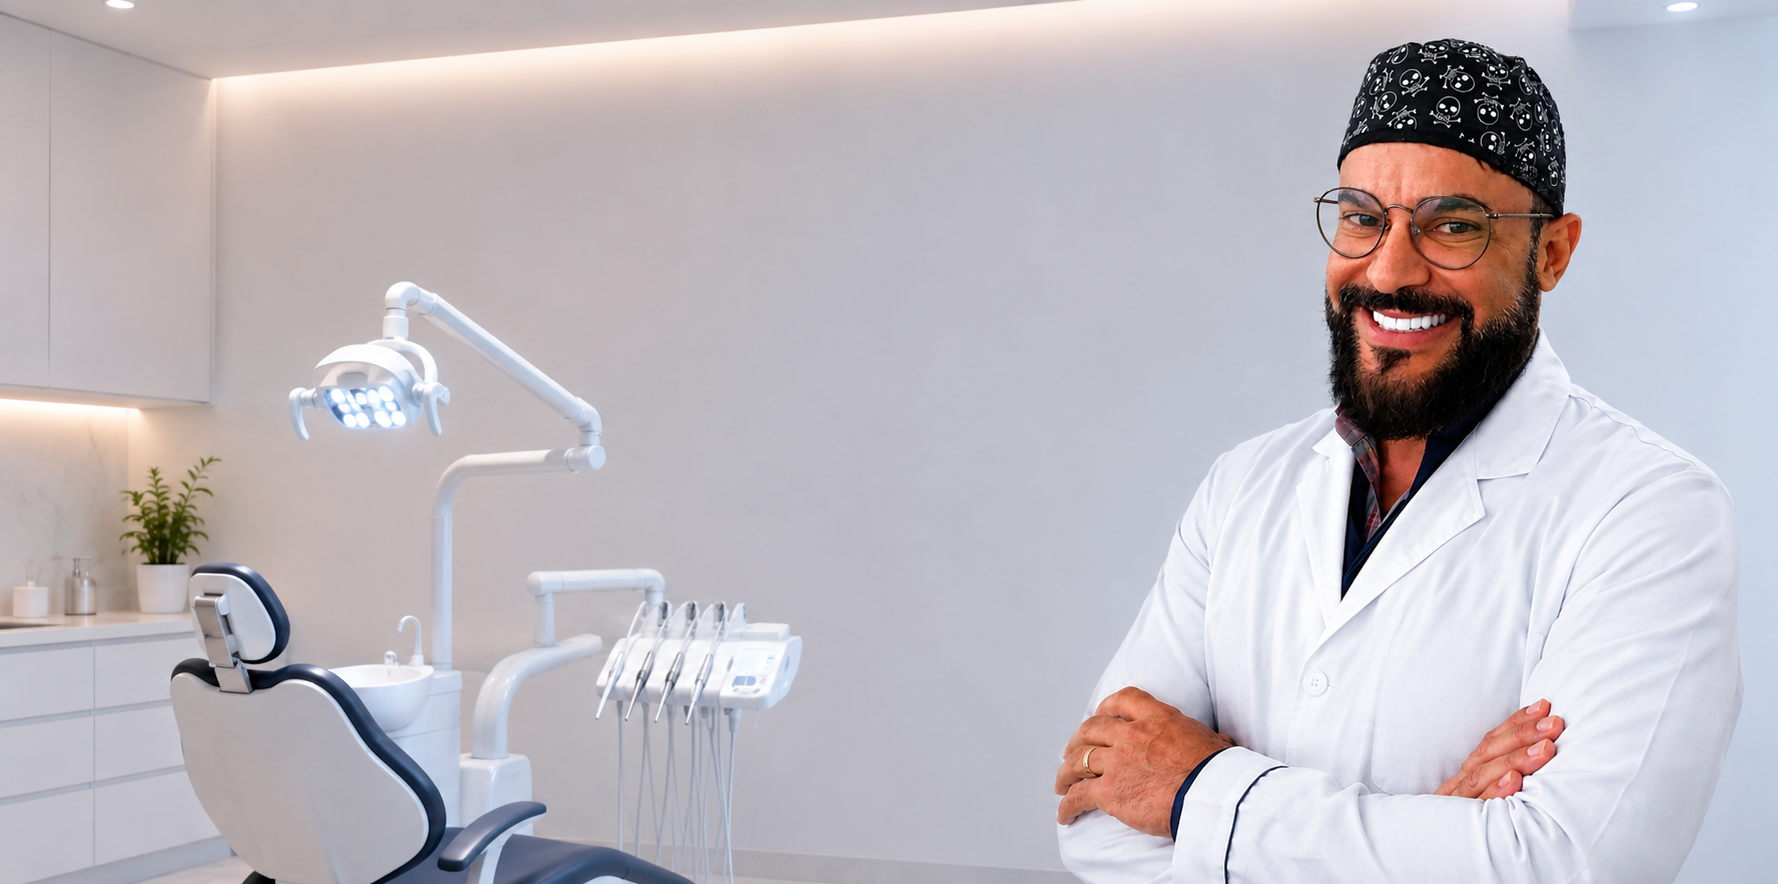
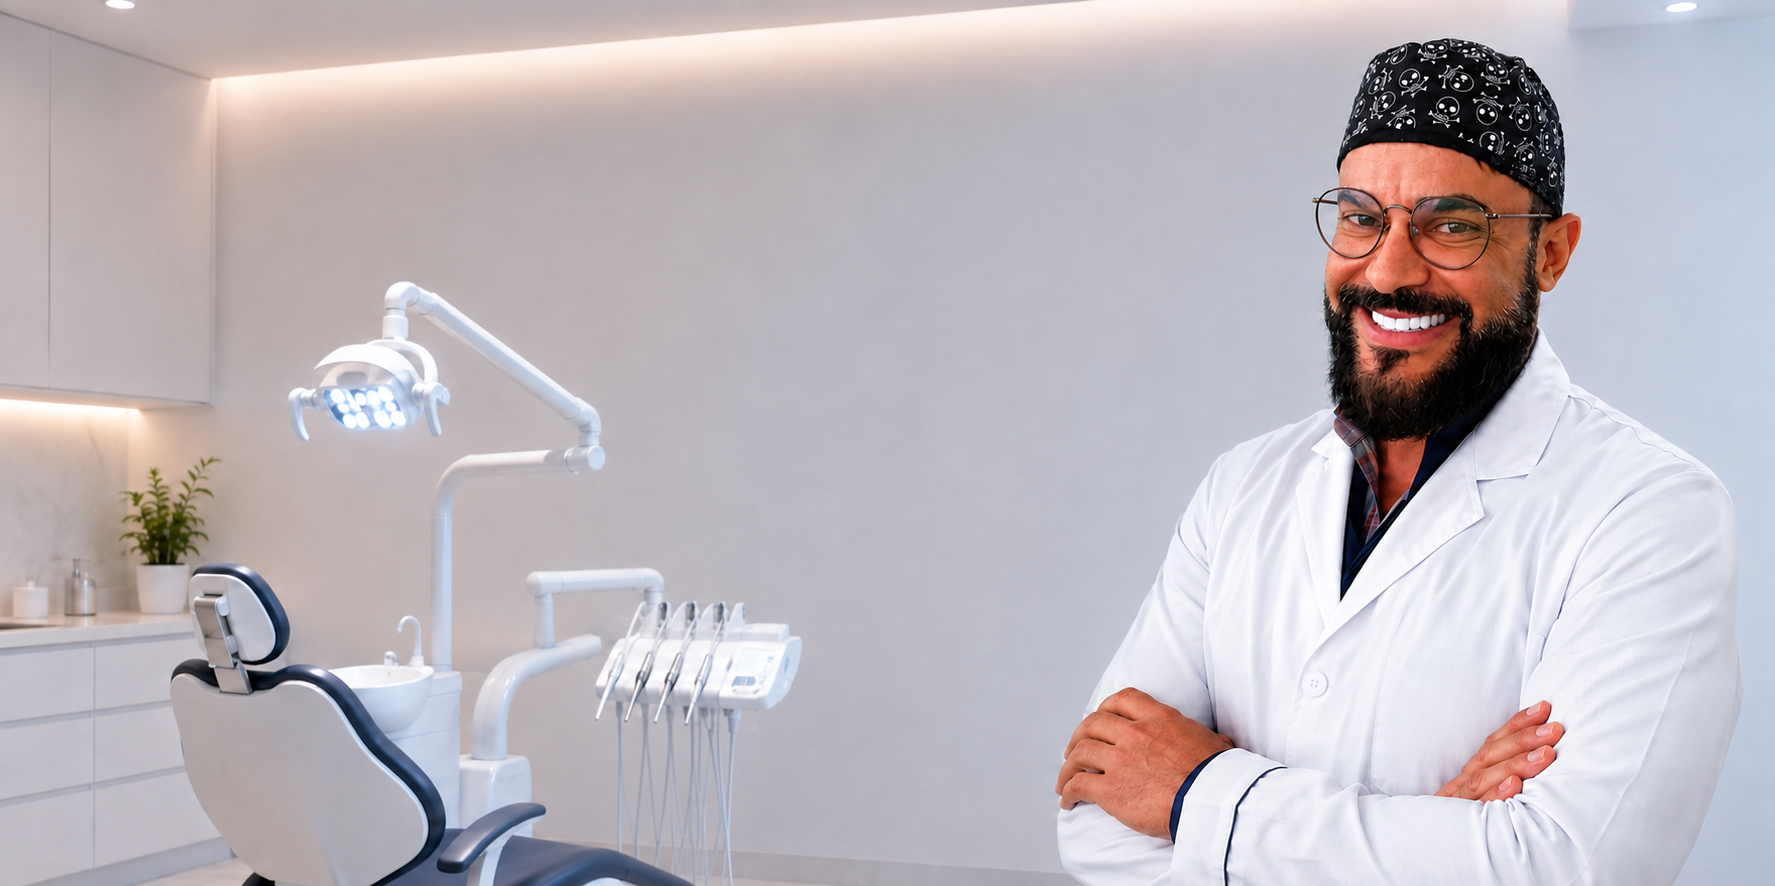
feat: menu fixo com fundo desfocado e azul escuro como cor unica
- Barra de navegacao sticky, transparente no topo e desfocada apos o scroll
- Ancoras para tratamento, passos, duvidas e localizacao
- Agendamento e rodape passam para azul escuro
- Botoes unificados no azul escuro, com variante clara para fundo escuro
- Badge removido do hero e banner atualizado com a foto nova

diff --git a/site/src/components/FormularioAgendamento.tsx b/site/src/components/FormularioAgendamento.tsx
@@ -93,7 +93,7 @@ export function FormularioAgendamento() {
             type="text"
             required
             autoComplete="name"
-            className="mt-2 min-h-[3.5rem] w-full rounded-xl border-2 border-cream-300 bg-cream-50 px-4 text-lg text-ink-900 placeholder:text-ink-400 focus:border-ink-700"
+            className="mt-2 min-h-[3.5rem] w-full rounded-xl border-2 border-cream-300 bg-cream-50 px-4 text-lg text-ink-900 placeholder:text-ink-400 focus:border-navy-900"
             placeholder="Como podemos te chamar"
           />
         </div>
@@ -111,7 +111,7 @@ export function FormularioAgendamento() {
             autoComplete="tel"
             value={telefone}
             onChange={(event) => setTelefone(formatarTelefone(event.target.value))}
-            className="mt-2 min-h-[3.5rem] w-full rounded-xl border-2 border-cream-300 bg-cream-50 px-4 text-lg text-ink-900 placeholder:text-ink-400 focus:border-ink-700"
+            className="mt-2 min-h-[3.5rem] w-full rounded-xl border-2 border-cream-300 bg-cream-50 px-4 text-lg text-ink-900 placeholder:text-ink-400 focus:border-navy-900"
             placeholder="(27) 90000-0000"
           />
         </div>
@@ -124,7 +124,7 @@ export function FormularioAgendamento() {
             id="mensagem"
             name="mensagem"
             rows={3}
-            className="mt-2 w-full rounded-xl border-2 border-cream-300 bg-cream-50 px-4 py-3 text-lg text-ink-900 placeholder:text-ink-400 focus:border-ink-700"
+            className="mt-2 w-full rounded-xl border-2 border-cream-300 bg-cream-50 px-4 py-3 text-lg text-ink-900 placeholder:text-ink-400 focus:border-navy-900"
             placeholder="Pode escrever com suas palavras"
           />
         </div>
@@ -135,7 +135,7 @@ export function FormularioAgendamento() {
             name="consentimento"
             type="checkbox"
             required
-            className="mt-1 h-6 w-6 shrink-0 accent-[#9a4b14]"
+            className="mt-1 h-6 w-6 shrink-0 accent-[#0c2033]"
           />
           <label htmlFor="consentimento" className="text-base leading-relaxed text-ink-700">
             Autorizo o contato pelos dados informados e li a{' '}
@@ -148,7 +148,7 @@ export function FormularioAgendamento() {
       </div>
 
       {status === 'error' ? (
-        <p role="alert" className="mt-5 rounded-xl bg-accent-100 p-4 text-base text-accent-700">
+        <p role="alert" className="mt-5 rounded-xl bg-red-50 p-4 text-base text-red-800">
           Não conseguimos enviar agora. Tente novamente em instantes ou chame direto no WhatsApp.
         </p>
       ) : null}
@@ -156,7 +156,7 @@ export function FormularioAgendamento() {
       <button
         type="submit"
         disabled={enviando}
-        className="mt-6 flex min-h-[3.5rem] w-full items-center justify-center rounded-full bg-accent-600 px-7 text-lg font-semibold text-white transition-colors hover:bg-accent-700 disabled:cursor-not-allowed disabled:opacity-70"
+        className="mt-6 flex min-h-[3.5rem] w-full items-center justify-center rounded-full bg-navy-900 px-7 text-lg font-semibold text-white transition-colors hover:bg-navy-800 disabled:cursor-not-allowed disabled:opacity-70"
       >
         {enviando ? 'Enviando...' : 'Quero agendar minha avaliação'}
       </button>

diff --git a/site/src/components/Menu.tsx b/site/src/components/Menu.tsx
@@ -1,0 +1,71 @@
+import { useEffect, useState } from 'react'
+import { WhatsAppIcon } from './CtaButton'
+import { clinic, whatsappUrl } from '../lib/site-config'
+import { trackConversion } from '../lib/tracking'
+
+const links = [
+  { href: '#tratamento', rotulo: 'O tratamento' },
+  { href: '#passos', rotulo: 'Como funciona' },
+  { href: '#duvidas', rotulo: 'Dúvidas' },
+  { href: '#local', rotulo: 'Onde fica' },
+] as const
+
+/**
+ * Barra fixa no topo. Começa transparente sobre o banner e, a partir do
+ * primeiro scroll, ganha fundo desfocado para o texto continuar legível.
+ */
+export function Menu() {
+  const [rolou, setRolou] = useState(false)
+
+  useEffect(() => {
+    function onScroll(): void {
+      setRolou(window.scrollY > 24)
+    }
+
+    onScroll()
+    window.addEventListener('scroll', onScroll, { passive: true })
+    return () => window.removeEventListener('scroll', onScroll)
+  }, [])
+
+  return (
+    <div
+      className={`sticky top-0 z-50 transition-colors duration-200 ${
+        rolou ? 'border-b border-cream-200 bg-white/80 backdrop-blur-md' : 'bg-transparent'
+      }`}
+    >
+      <nav
+        aria-label="Navegação da página"
+        className="container-page flex min-h-[4.5rem] items-center justify-between gap-6"
+      >
+        <a href="#topo" className="text-xl font-semibold tracking-tight text-navy-900">
+          {clinic.name}
+        </a>
+
+        <ul className="hidden items-center gap-7 lg:flex">
+          {links.map((link) => (
+            <li key={link.href}>
+              <a
+                href={link.href}
+                className="text-base font-medium text-ink-800 underline-offset-8 hover:underline"
+              >
+                {link.rotulo}
+              </a>
+            </li>
+          ))}
+        </ul>
+
+        <a
+          href={whatsappUrl}
+          target="_blank"
+          rel="noopener noreferrer"
+          onClick={() => trackConversion('whatsapp_click')}
+          className="inline-flex min-h-[3rem] items-center gap-2 rounded-full bg-navy-900 px-5 text-base font-semibold text-white transition-colors hover:bg-navy-800"
+        >
+          <WhatsAppIcon className="h-5 w-5" />
+          <span className="hidden sm:inline">Falar no WhatsApp</span>
+          <span className="sm:hidden">WhatsApp</span>
+        </a>
+      </nav>
+    </div>
+  )
+}

diff --git a/site/src/components/CtaFinal.tsx b/site/src/components/CtaFinal.tsx
@@ -5,26 +5,28 @@ import { clinic } from '../lib/site-config'
 
 export function CtaFinal() {
   return (
-    <Section id="agendar" labelledBy="agendar-titulo" className="bg-sky-100 text-ink-900">
+    <Section id="agendar" labelledBy="agendar-titulo" className="bg-navy-900 text-cream-100">
       <div className="container-page grid gap-10 lg:grid-cols-[1fr_1.05fr] lg:items-center lg:gap-16">
         <div>
-          <SectionTitle id="agendar-titulo">
+          <SectionTitle id="agendar-titulo" className="!text-cream-50">
             Agende sua avaliação e pare de adiar
           </SectionTitle>
 
-          <p className="mt-6 text-lg leading-relaxed text-ink-800 md:text-xl">
+          <p className="mt-6 text-lg leading-relaxed text-cream-200 md:text-xl">
             Deixe seu nome e WhatsApp que a equipe entra em contato para marcar o dia. A avaliação
             é presencial, em {clinic.address.district}, e nela você descobre a condição do seu osso,
             o que pode ser feito, quanto tempo leva e as formas de pagamento. Sem compromisso de
             fechar tratamento na hora.
           </p>
 
-          <div className="mt-8 rounded-card border border-sky-200 bg-white p-6">
-            <p className="text-lg font-semibold text-ink-900">Prefere falar agora?</p>
-            <p className="mt-1 text-base text-ink-700">
+          <div className="mt-8 rounded-card border border-navy-line bg-navy-800 p-6">
+            <p className="text-lg font-semibold text-cream-50">Prefere falar agora?</p>
+            <p className="mt-1 text-base text-cream-200">
               A equipe responde no WhatsApp dentro do horário de atendimento.
             </p>
-            <WhatsAppButton className="mt-5 w-full sm:w-auto">Chamar no WhatsApp</WhatsAppButton>
+            <WhatsAppButton variant="light" className="mt-5 w-full sm:w-auto">
+              Chamar no WhatsApp
+            </WhatsAppButton>
           </div>
         </div>
 

diff --git a/site/src/components/Rodape.tsx b/site/src/components/Rodape.tsx
@@ -2,10 +2,10 @@ import { clinic, dentist, fullAddress } from '../lib/site-config'
 
 export function Rodape() {
   return (
-    <footer className="border-t border-sky-200 bg-sky-100 py-14 pb-28 text-ink-700 md:pb-14">
-      <div className="container-page grid gap-8 text-base text-ink-700 md:grid-cols-3">
+    <footer className="border-t border-navy-line bg-navy-900 py-14 pb-28 text-cream-200 md:pb-14">
+      <div className="container-page grid gap-8 text-base text-cream-200 md:grid-cols-3">
         <div>
-          <p className="text-lg font-semibold text-ink-900">{clinic.legalName}</p>
+          <p className="text-lg font-semibold text-cream-50">{clinic.legalName}</p>
           <p className="mt-2">CNPJ {clinic.cnpj}</p>
           <p className="mt-2">
             Responsável técnico: {dentist.name}
@@ -15,7 +15,7 @@ export function Rodape() {
         </div>
 
         <div>
-          <p className="text-lg font-semibold text-ink-900">Contato</p>
+          <p className="text-lg font-semibold text-cream-50">Contato</p>
           <p className="mt-2">{fullAddress}</p>
           <p className="mt-2">{clinic.hours}</p>
           <p className="mt-2">
@@ -36,13 +36,13 @@ export function Rodape() {
         </div>
 
         <div>
-          <p className="text-lg font-semibold text-ink-900">Informações</p>
+          <p className="text-lg font-semibold text-cream-50">Informações</p>
           <p className="mt-2">
             <a href="/politica-de-privacidade.html" className="underline underline-offset-4">
               Política de privacidade
             </a>
           </p>
-          <p className="mt-4 text-ink-500">
+          <p className="mt-4 text-cream-300">
             Este site tem caráter informativo e não substitui a avaliação clínica presencial.
             Resultados variam conforme o caso de cada paciente.
           </p>

diff --git a/site/src/components/Localizacao.tsx b/site/src/components/Localizacao.tsx
@@ -7,7 +7,7 @@ export function Localizacao() {
   const [mapaVisivel, setMapaVisivel] = useState(false)
 
   return (
-    <Section labelledBy="local-titulo" className="bg-cream-50">
+    <Section id="local" labelledBy="local-titulo" className="bg-cream-50">
       <div className="container-page grid gap-10 lg:grid-cols-2 lg:gap-16">
         <div>
           <SectionTitle id="local-titulo">Onde fica o consultório</SectionTitle>
@@ -39,7 +39,7 @@ export function Localizacao() {
             href={mapsUrl}
             target="_blank"
             rel="noopener noreferrer"
-            className="mt-8 inline-flex min-h-[3.5rem] items-center rounded-full border-2 border-ink-700 px-7 text-lg font-semibold text-ink-900 transition-colors hover:bg-ink-900 hover:text-cream-50"
+            className="mt-8 inline-flex min-h-[3.5rem] items-center rounded-full border-2 border-navy-900 px-7 text-lg font-semibold text-navy-900 transition-colors hover:bg-navy-900 hover:text-white"
           >
             Ver rota no Google Maps
           </a>
@@ -60,7 +60,7 @@ export function Localizacao() {
               onClick={() => setMapaVisivel(true)}
               className="flex h-full min-h-[22rem] w-full flex-col items-center justify-center gap-3 p-8 text-center"
             >
-              <svg viewBox="0 0 24 24" className="h-10 w-10 fill-accent-600" aria-hidden="true">
+              <svg viewBox="0 0 24 24" className="h-10 w-10 fill-navy-900" aria-hidden="true">
                 <path d="M12 2a7 7 0 0 0-7 7c0 5.25 7 13 7 13s7-7.75 7-13a7 7 0 0 0-7-7Zm0 9.5A2.5 2.5 0 1 1 12 6.5a2.5 2.5 0 0 1 0 5Z" />
               </svg>
               <span className="text-lg font-semibold text-ink-900">Carregar o mapa</span>

diff --git a/site/src/components/BotoesFixos.tsx b/site/src/components/BotoesFixos.tsx
@@ -35,7 +35,7 @@ export function BotoesFixos() {
             target="_blank"
             rel="noopener noreferrer"
             onClick={() => trackConversion('whatsapp_click')}
-            className="fixed right-5 bottom-5 z-40 hidden h-16 w-16 items-center justify-center rounded-full bg-[#128C7E] text-white shadow-lg transition-colors hover:bg-[#0d6d62] md:flex"
+            className="fixed right-5 bottom-5 z-40 hidden h-16 w-16 items-center justify-center rounded-full bg-navy-900 text-white shadow-lg ring-2 ring-white/30 transition-colors hover:bg-navy-800 md:flex"
           >
             <WhatsAppIcon className="h-8 w-8" />
             <span className="sr-only">Falar no WhatsApp</span>
@@ -52,14 +52,14 @@ export function BotoesFixos() {
               target="_blank"
               rel="noopener noreferrer"
               onClick={() => trackConversion('whatsapp_click')}
-              className="flex min-h-[3.25rem] flex-1 items-center justify-center gap-2 rounded-full bg-accent-600 text-lg font-semibold text-white"
+              className="flex min-h-[3.25rem] flex-1 items-center justify-center gap-2 rounded-full bg-navy-900 text-lg font-semibold text-white"
             >
               <WhatsAppIcon className="h-6 w-6" />
               WhatsApp
             </a>
             <a
               href="#agendar"
-              className="flex min-h-[3.25rem] flex-1 items-center justify-center rounded-full border-2 border-ink-700 text-lg font-semibold text-ink-900"
+              className="flex min-h-[3.25rem] flex-1 items-center justify-center rounded-full border-2 border-navy-900 text-lg font-semibold text-navy-900"
             >
               Agendar
             </a>

diff --git a/site/src/components/CtaButton.tsx b/site/src/components/CtaButton.tsx
@@ -5,10 +5,17 @@ import { trackConversion } from '../lib/tracking'
 const baseClasses =
   'inline-flex min-h-[3.5rem] items-center justify-center gap-3 rounded-full px-7 py-3 text-center text-lg leading-snug font-semibold transition-colors duration-200'
 
+/** `light` existe para os blocos de fundo azul escuro, onde o sólido sumiria. */
+const VARIANTES = {
+  solid: 'bg-navy-900 text-white hover:bg-navy-800',
+  light: 'bg-white text-navy-900 hover:bg-cream-100',
+  outline: 'border-2 border-navy-900 bg-transparent text-navy-900 hover:bg-navy-900 hover:text-white',
+} as const
+
 interface WhatsAppButtonProps {
   children?: ReactNode
   className?: string
-  variant?: 'solid' | 'outline'
+  variant?: keyof typeof VARIANTES
 }
 
 export function WhatsAppButton({
@@ -16,10 +23,7 @@ export function WhatsAppButton({
   className = '',
   variant = 'solid',
 }: WhatsAppButtonProps) {
-  const variantClasses =
-    variant === 'solid'
-      ? 'bg-accent-600 text-white hover:bg-accent-700'
-      : 'border-2 border-ink-900 bg-transparent text-ink-900 hover:bg-ink-900 hover:text-cream-50'
+  const variantClasses = VARIANTES[variant]
 
   return (
     <a
@@ -45,7 +49,7 @@ export function AnchorButton({ href, children, className = '' }: AnchorButtonPro
   return (
     <a
       href={href}
-      className={`${baseClasses} border-2 border-ink-700 text-ink-900 hover:bg-ink-900 hover:text-cream-50 ${className}`}
+      className={`${baseClasses} ${VARIANTES.outline} ${className}`}
     >
       {children}
     </a>

diff --git a/site/src/components/Hero.tsx b/site/src/components/Hero.tsx
@@ -7,7 +7,7 @@ export function Hero() {
   const fade = reduceMotion ? {} : { initial: { opacity: 0, y: 20 }, animate: { opacity: 1, y: 0 } }
 
   return (
-    <header className="relative overflow-hidden bg-cream-50">
+    <header id="topo" className="relative -mt-[4.5rem] overflow-hidden bg-cream-50 pt-[4.5rem]">
       {/* No celular o banner abre a página; no desktop ele ocupa a metade direita
           e o gradiente garante contraste do texto sobre a parte clara da foto. */}
       <div className="relative lg:absolute lg:inset-y-0 lg:right-0 lg:w-[58%]">
@@ -32,10 +32,6 @@ export function Hero() {
           transition={{ duration: 0.6, ease: 'easeOut' }}
           className="max-w-2xl lg:max-w-[34rem]"
         >
-          <p className="mb-6 inline-block rounded-full bg-cream-100 px-4 py-2 text-base font-medium text-ink-700 ring-1 ring-cream-200">
-            Protocolo e prótese fixa sobre implantes · {clinic.address.city} (ES)
-          </p>
-
           <h1 className="font-display text-hero font-semibold leading-[1.08] text-ink-900">
             Volte a comer, falar e sorrir sem se preocupar com a dentadura
           </h1>

diff --git a/site/src/components/VideoDoutor.tsx b/site/src/components/VideoDoutor.tsx
@@ -49,7 +49,7 @@ export function VideoDoutor() {
                 className="h-full w-full object-cover"
               />
               <span className="absolute inset-0 flex items-center justify-center bg-ink-900/35">
-                <span className="flex h-20 w-20 items-center justify-center rounded-full bg-accent-600 transition-transform duration-200 group-hover:scale-105">
+                <span className="flex h-20 w-20 items-center justify-center rounded-full bg-navy-900 transition-transform duration-200 group-hover:scale-105">
                   <svg viewBox="0 0 24 24" className="ml-1 h-9 w-9 fill-white" aria-hidden="true">
                     <path d="M8 5v14l11-7z" />
                   </svg>

diff --git a/site/src/components/Faq.tsx b/site/src/components/Faq.tsx
@@ -61,7 +61,9 @@ export function Faq() {
             Sua dúvida não está aqui? Pergunte direto para a equipe do {dentist.shortName}, sem
             compromisso de agendar nada.
           </p>
-          <WhatsAppButton className="mt-5 w-full sm:w-auto">Tirar minha dúvida agora</WhatsAppButton>
+          <WhatsAppButton variant="light" className="mt-5 w-full sm:w-auto">
+            Tirar minha dúvida agora
+          </WhatsAppButton>
         </div>
       </div>
     </Section>

diff --git a/site/src/components/SobreDoutor.tsx b/site/src/components/SobreDoutor.tsx
@@ -36,7 +36,7 @@ export function SobreDoutor() {
               <li key={credencial} className="flex gap-3 text-lg text-ink-800">
                 <svg
                   viewBox="0 0 20 20"
-                  className="mt-1 h-5 w-5 shrink-0 fill-accent-600"
+                  className="mt-1 h-5 w-5 shrink-0 fill-navy-900"
                   aria-hidden="true"
                 >
                   <path d="M8.2 14.4 4 10.2l1.4-1.4 2.8 2.8L14.6 5l1.4 1.4z" />

diff --git a/site/src/components/Dores.tsx b/site/src/components/Dores.tsx
@@ -43,7 +43,7 @@ export function Dores() {
               <div className="flex gap-4">
                 <span
                   aria-hidden="true"
-                  className="mt-2.5 h-2.5 w-2.5 shrink-0 rounded-full bg-accent-600"
+                  className="mt-2.5 h-2.5 w-2.5 shrink-0 rounded-full bg-navy-900"
                 />
                 <div>
                   <h3 className="text-xl font-semibold text-ink-900">{situacao.titulo}</h3>
